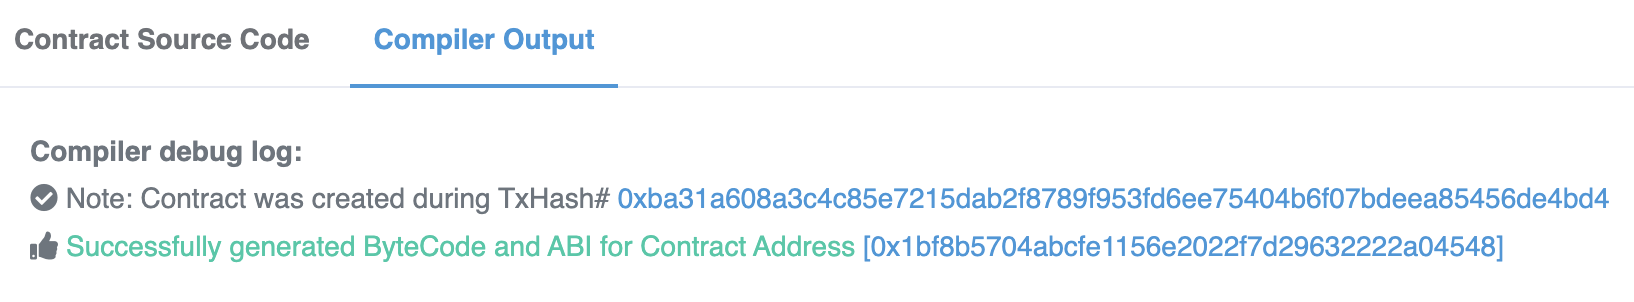
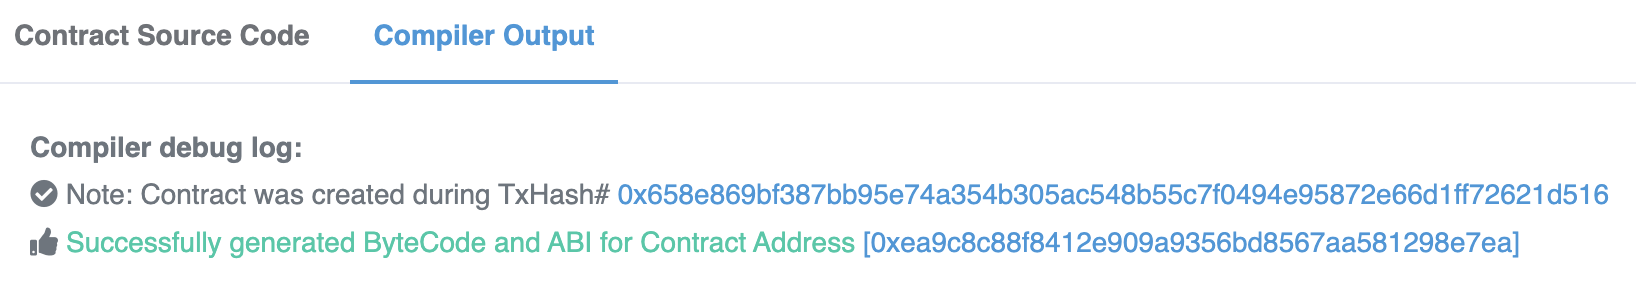
edit readme.md

diff --git a/README.md b/README.md
@@ -9,7 +9,7 @@ Code structure:
 - Context.sol: ERC20 ultility functions
 
 ### Our contract on Goerli network:
-Feel free to test our deployed smart contract in Goerli network! Our contract address is: https://goerli.etherscan.io/address/0x1bf8b5704abcfe1156e2022f7d29632222a04548
+Feel free to test our deployed smart contract in Goerli network! Our contract address is: https://goerli.etherscan.io/address/0xea9c8c88f8412e909a9356bd8567aa581298e7ea
 
 ---
 # Deployment and testing Manual
